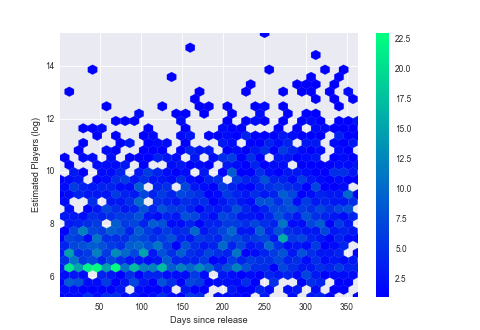
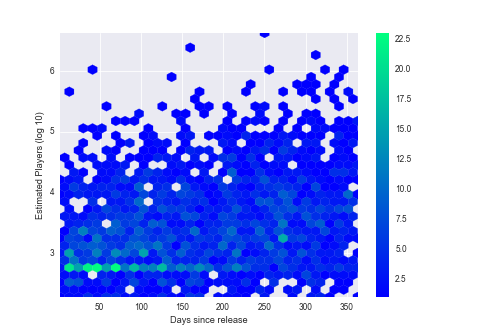
Further formatting, and analysis

diff --git a/analysis.py b/analysis.py
@@ -220,23 +220,23 @@ mu.plot_out()
 #           np.log(data['Owners']),
 #           alpha=0.3, lw=0.2)
 pl.hexbin(data['DaysSinceRelease'],
-          np.log(data['Owners']),
+          np.log10(data['Owners']),
           gridsize=32,
           mincnt=1,
           cmap=pl.cm.winter)
 pl.colorbar()          
 pl.xlabel("Days since release")
-pl.ylabel("Owners (log)")
+pl.ylabel("Owners (log 10)")
 mu.plot_out()
 
 pl.hexbin(data['DaysSinceRelease'],
-          np.log(data['Players']),
+          np.log10(data['Players']),
           gridsize=32,
           mincnt=1,
           cmap=pl.cm.winter)
 pl.colorbar()          
 pl.xlabel("Days since release")
-pl.ylabel("Estimated Players (log)")
+pl.ylabel("Estimated Players (log 10)")
 mu.plot_out()
 print("Line artifact is at 500 players")
 

diff --git a/README.md b/README.md
@@ -6,6 +6,16 @@ We estimate profit by taking the product of the owners given by Steam Spy and th
 
 This is a limitation of the data, as including the price point selected would be interesting.
 
+
+![Players by Days Since Release](./plots/players_by_days.png)
+Notice there is an artifact just under 10^3 (or around 500) players. I'm guessing this is either from steamspy or by how the data is collected.
+
+![Profit by Days Since Release](./plots/profit_by_days.png)
+There is a weak relationship here.
+
+![Profit by Playtime](./plots/profit_by_playtime.png)
+I would have liked to see the proportion of players with positive playtime, since many accounts will have games that have never been launched, and I'm sure that skews this data.
+
 ## Generating Features
 
 Examining common words taken from the titles reveals:
@@ -41,39 +51,28 @@ While many of these features would benefit from transforms to make them fit a no
 
 The regression almost wholly relies on the number of Players as feature. The R^2 drops from 0.857 to 0.140 without this feature. This will be due to the high correlation between the number of Players and the number of Owners.
 
-Without 
-Players meaned        0.139128
-is_RPG                0.856565
-is_puzzle             0.856560
-is_platformer         0.856390
-is_sandbox            0.856662
-is_simulation         0.856582
-is_strategy           0.856573
-is_survival           0.856180
-HasScore              0.856597
-HasScore>50%          0.856750
-DaysSinceRelease      0.856392
-VRInTitle             0.856739
-2InTitle              0.856656
-SpaceInTitle          0.856730
-SuperInTitle          0.856739
+| Feature               |   Coefficient | 
+|-----------------------|---------------|
+|Avg Playtime meaned    |        6.8    |
+|Median Playtime meaned |       -3.9    |
+|Players meaned         |       18.5    |
+|is_RPG                 |   -91339.3    |
+|is_puzzle              |  -285090.6    |
+|is_platformer          |  -181062.4    |
+|is_sandbox             |   132384.9    |
+|is_simulation          |   -85141.8    |
+|is_strategy            |   -86374.0    |
+|is_survival            |   263060.5    |
+|HasScore               |   -94658.9    |
+|HasScore>50%           |    -8945.2    |
+|DaysSinceRelease       |     -461.2    |
+|VRInTitle              |    45168.0    |
+|2InTitle               |   126918.9    |
+|SpaceInTitle           |   -76115.2    |
+|SuperInTitle           |   -75600.4    |
+|intercept              |   460374.0    |
 
 
-Avg Playtime meaned            6.8375
-Median Playtime meaned          -3.9889
-Players meaned                18.5191
-is_RPG                    -91339.3672
-is_puzzle                -285090.6131
-is_platformer            -181062.4905
-is_sandbox                132384.9794
-is_simulation             -85141.8353
-is_strategy               -86374.0631
-is_survival               263060.5015
-HasScore                  -94658.9344
-HasScore>50%               -8945.2930
-DaysSinceRelease            -461.2584
-VRInTitle                  45168.0215
-2InTitle                  126918.9739
-SpaceInTitle              -76115.2464
-SuperInTitle              -75600.4340
-intercept                 460374.0175
+So we see that the 'best' game we could create would be an indie sandbox survival game, with a title that mentions VR and is a sequel.
+
+The postive value of being a sequel is probably a sort of filter effect. Bad games will be less likely to generate a sequel.
